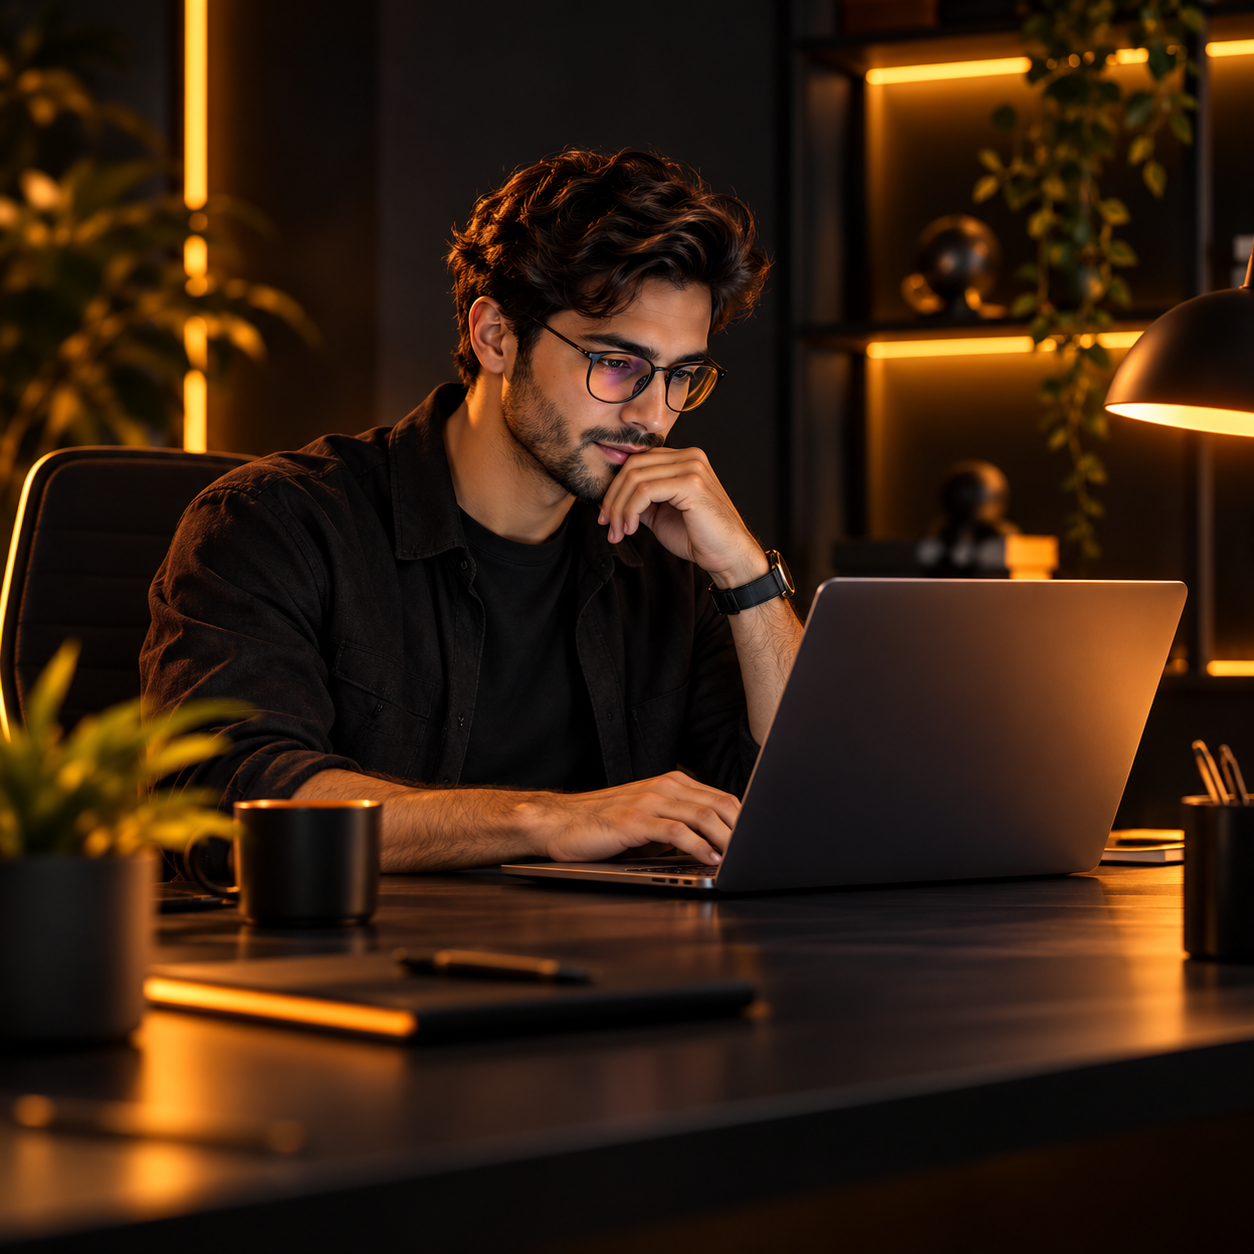
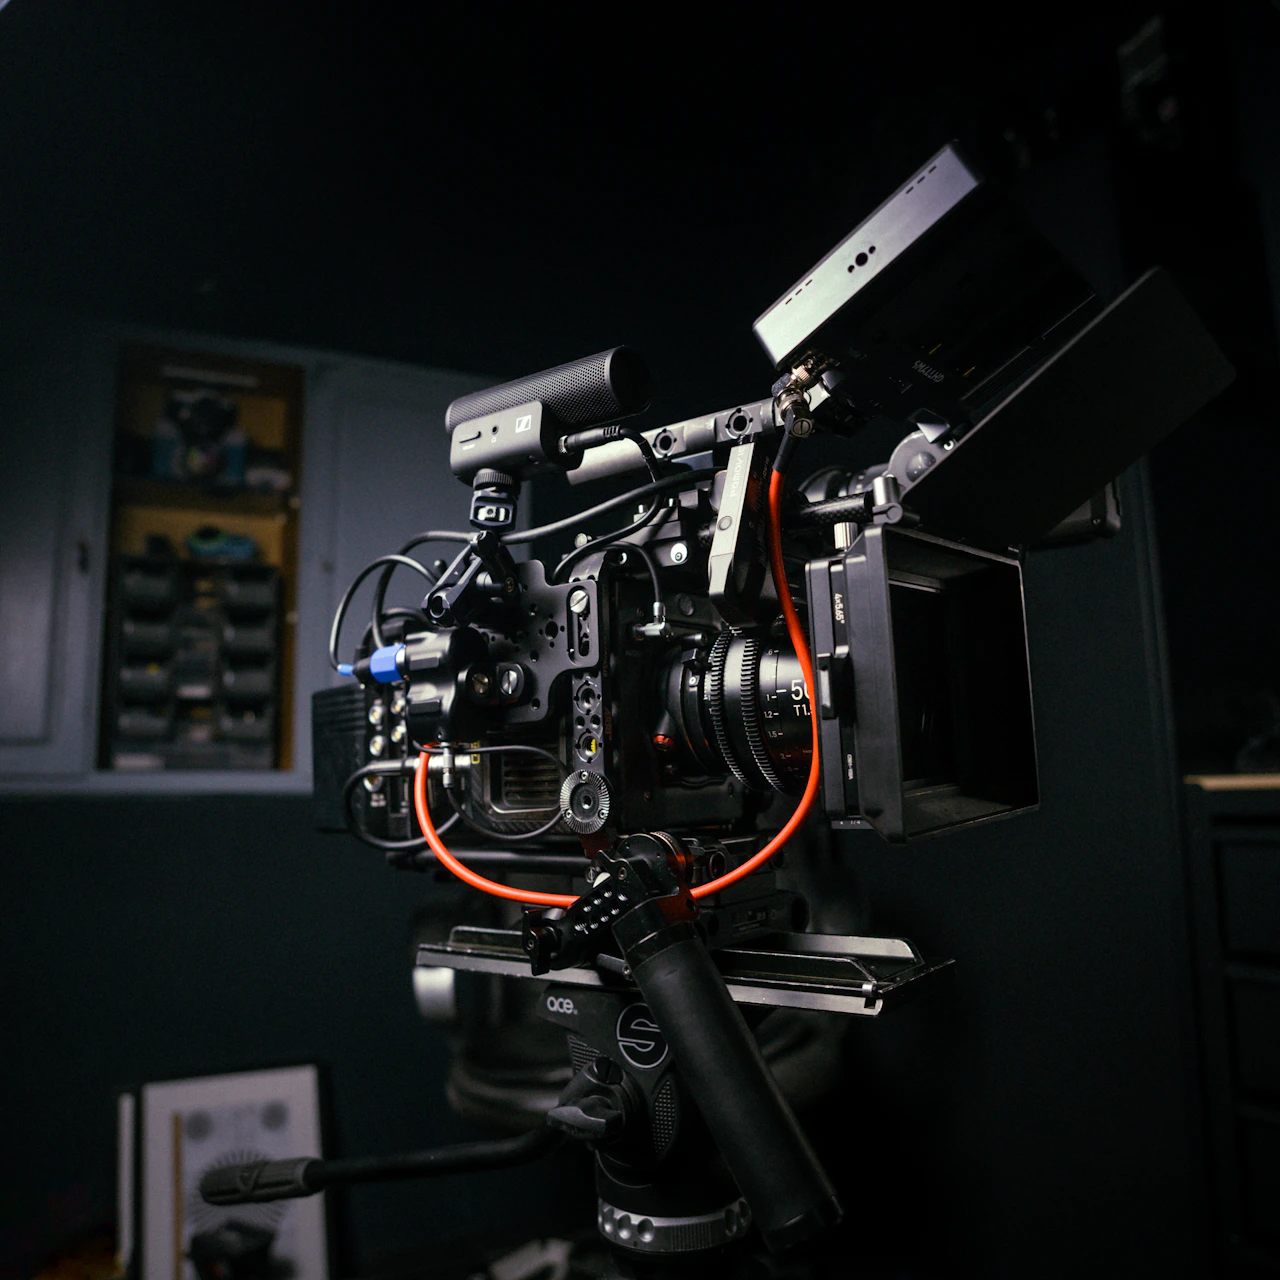
Replace hero card image with authentic high-production cinema camera photo

diff --git a/src/styles/home.css b/src/styles/home.css
@@ -2011,7 +2011,7 @@
   height: 100%;
   object-fit: cover;
   display: block;
-  filter: brightness(0.72) contrast(1.02) saturate(0.9);
+  filter: brightness(0.9) contrast(1.04) saturate(1.02);
 }
 
 .hero__image-overlay {
